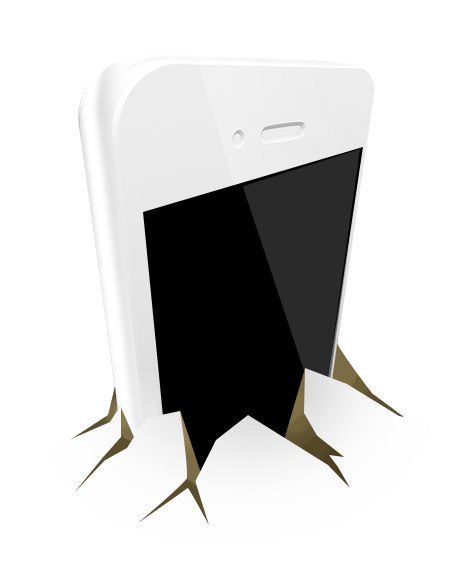
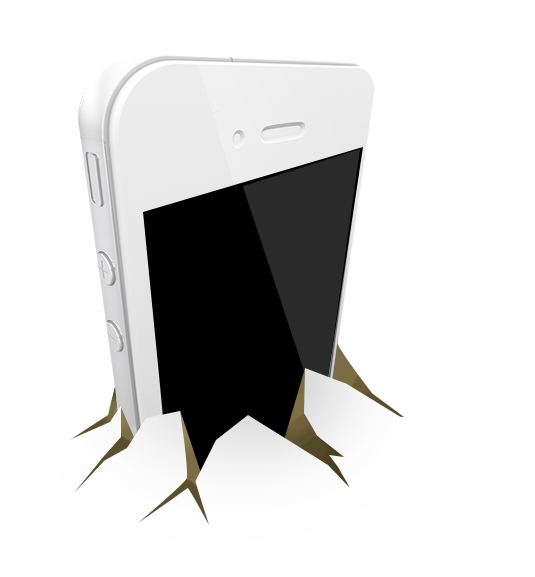
Update animation key frames on intro

diff --git a/src/styles/pages/hello.scss b/src/styles/pages/hello.scss
@@ -33,7 +33,7 @@
 
     .phone-base {
         top: -100px;
-        width: 457px;
+        width: 535px;
         height: 577px;
         // background: url('/images/intro/mobile_anim.gif');
         z-index: 1;
